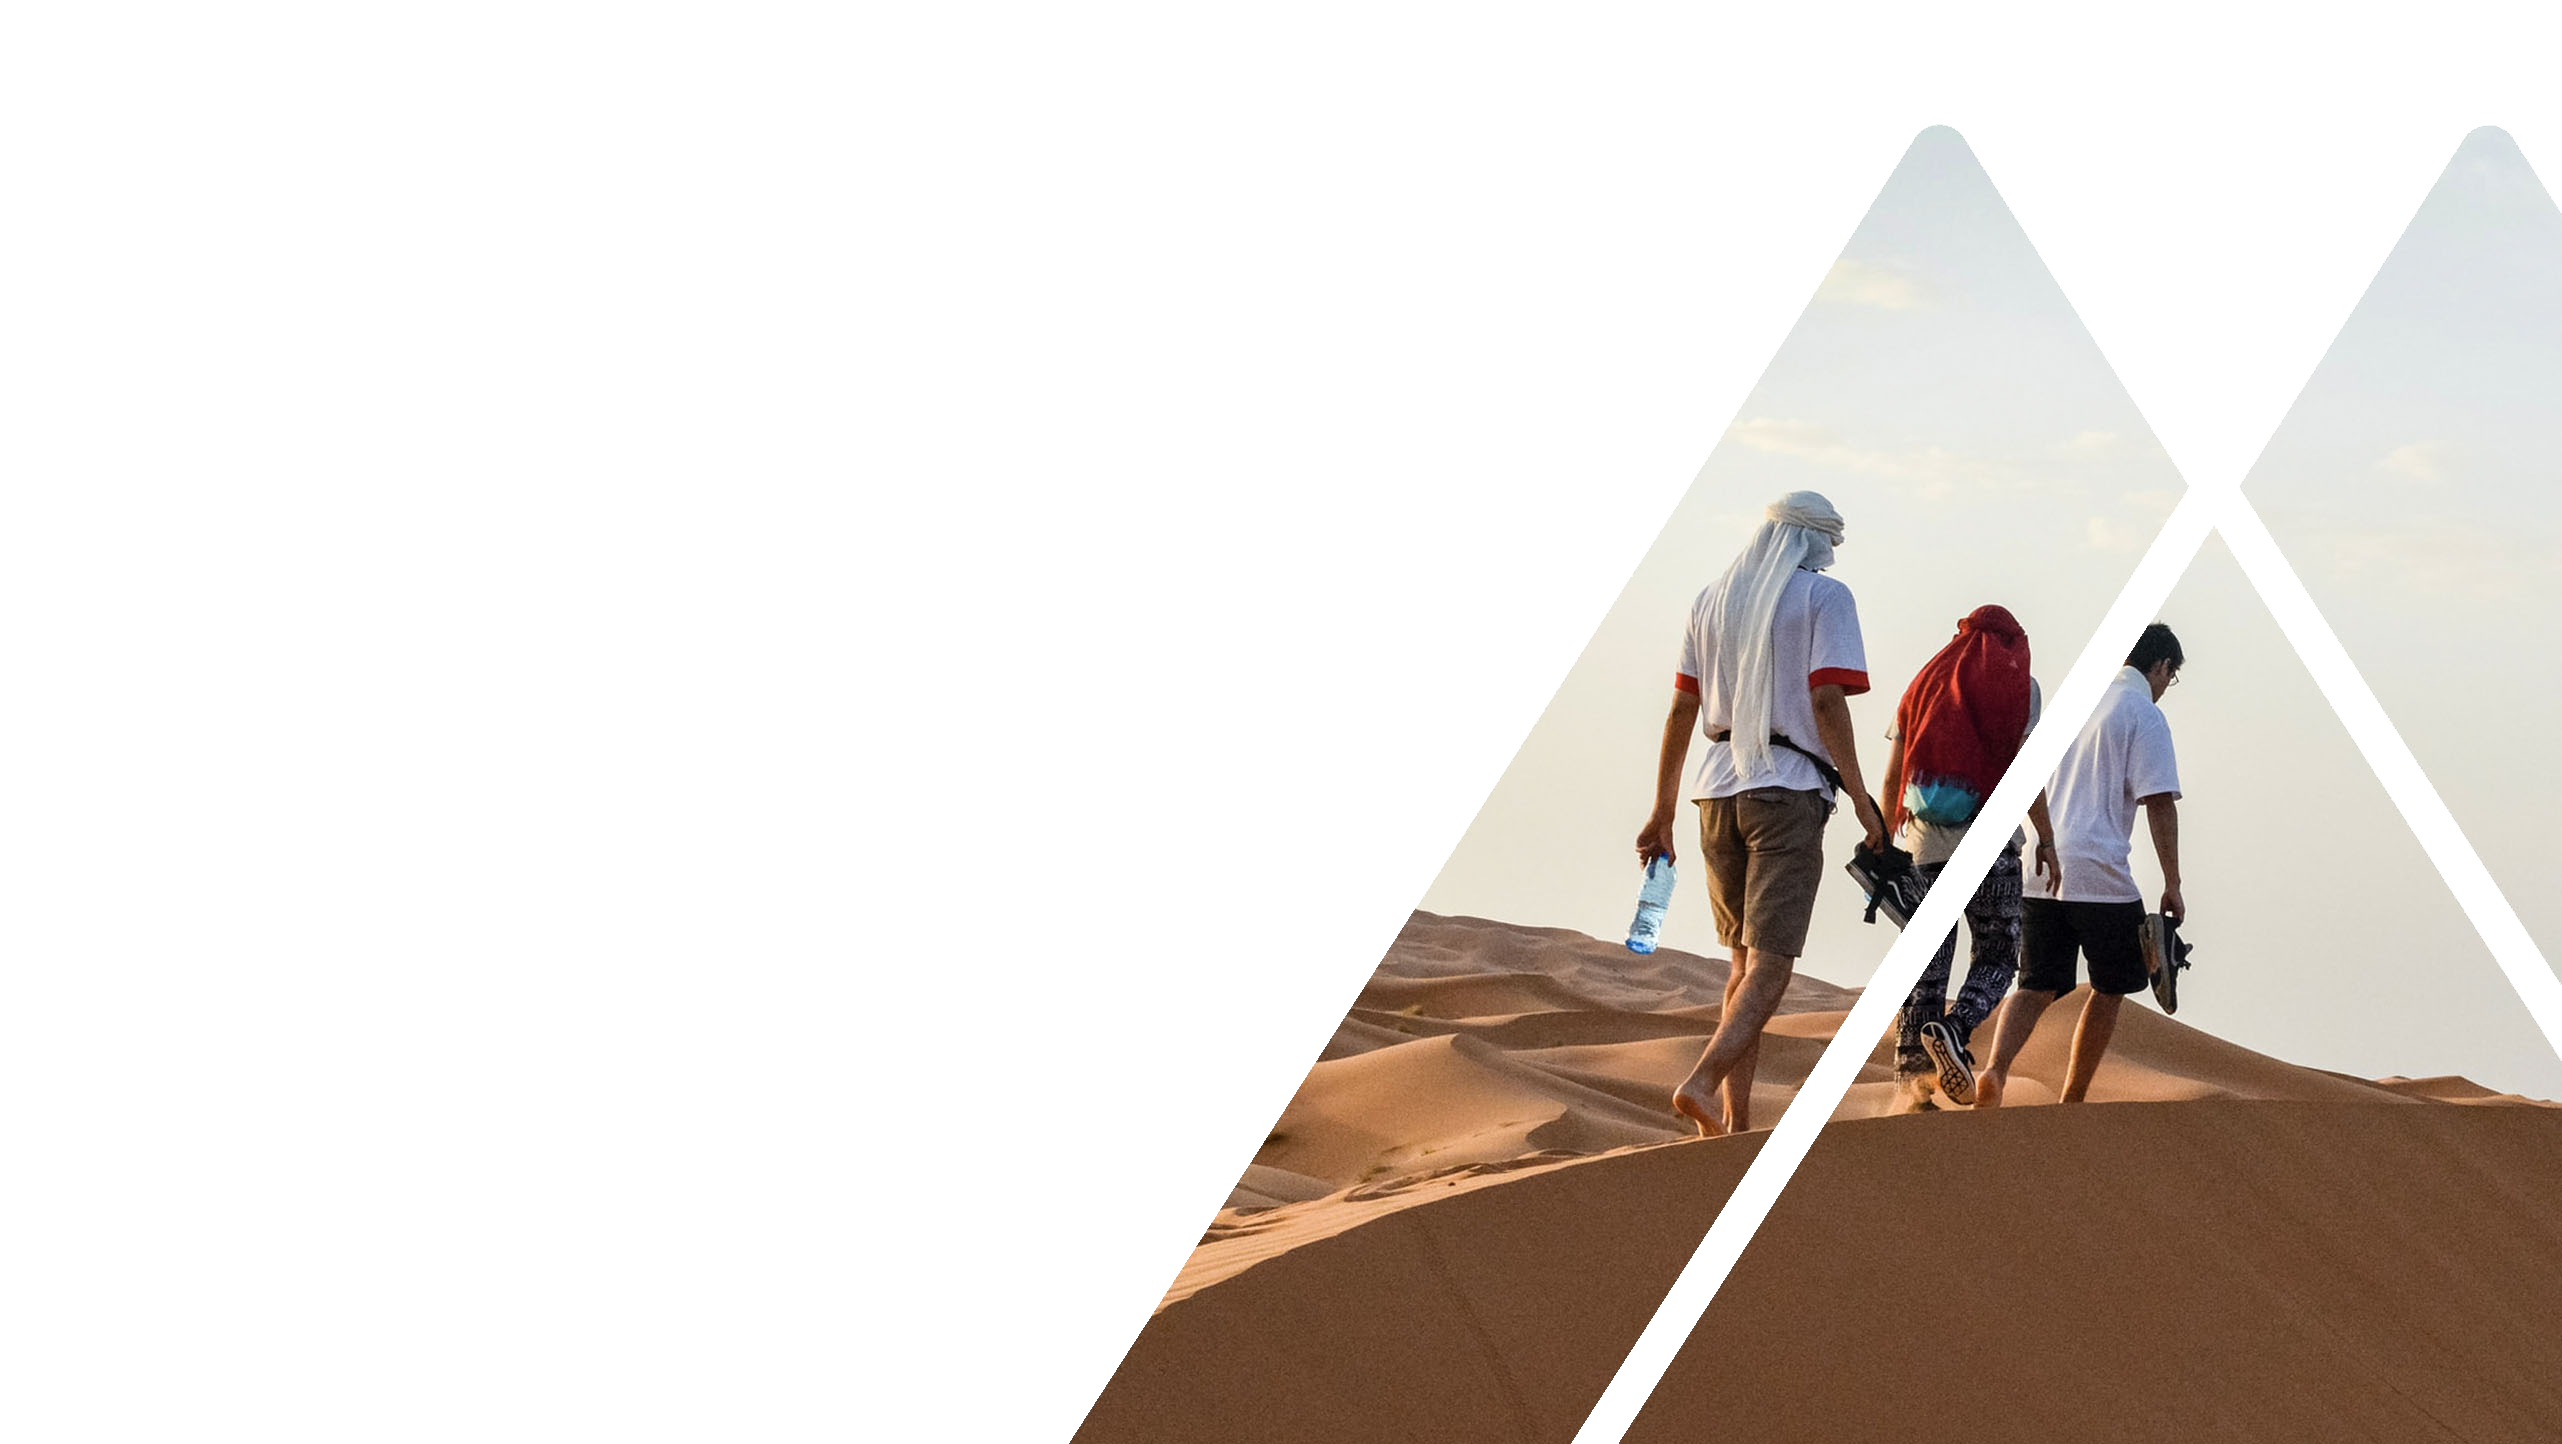
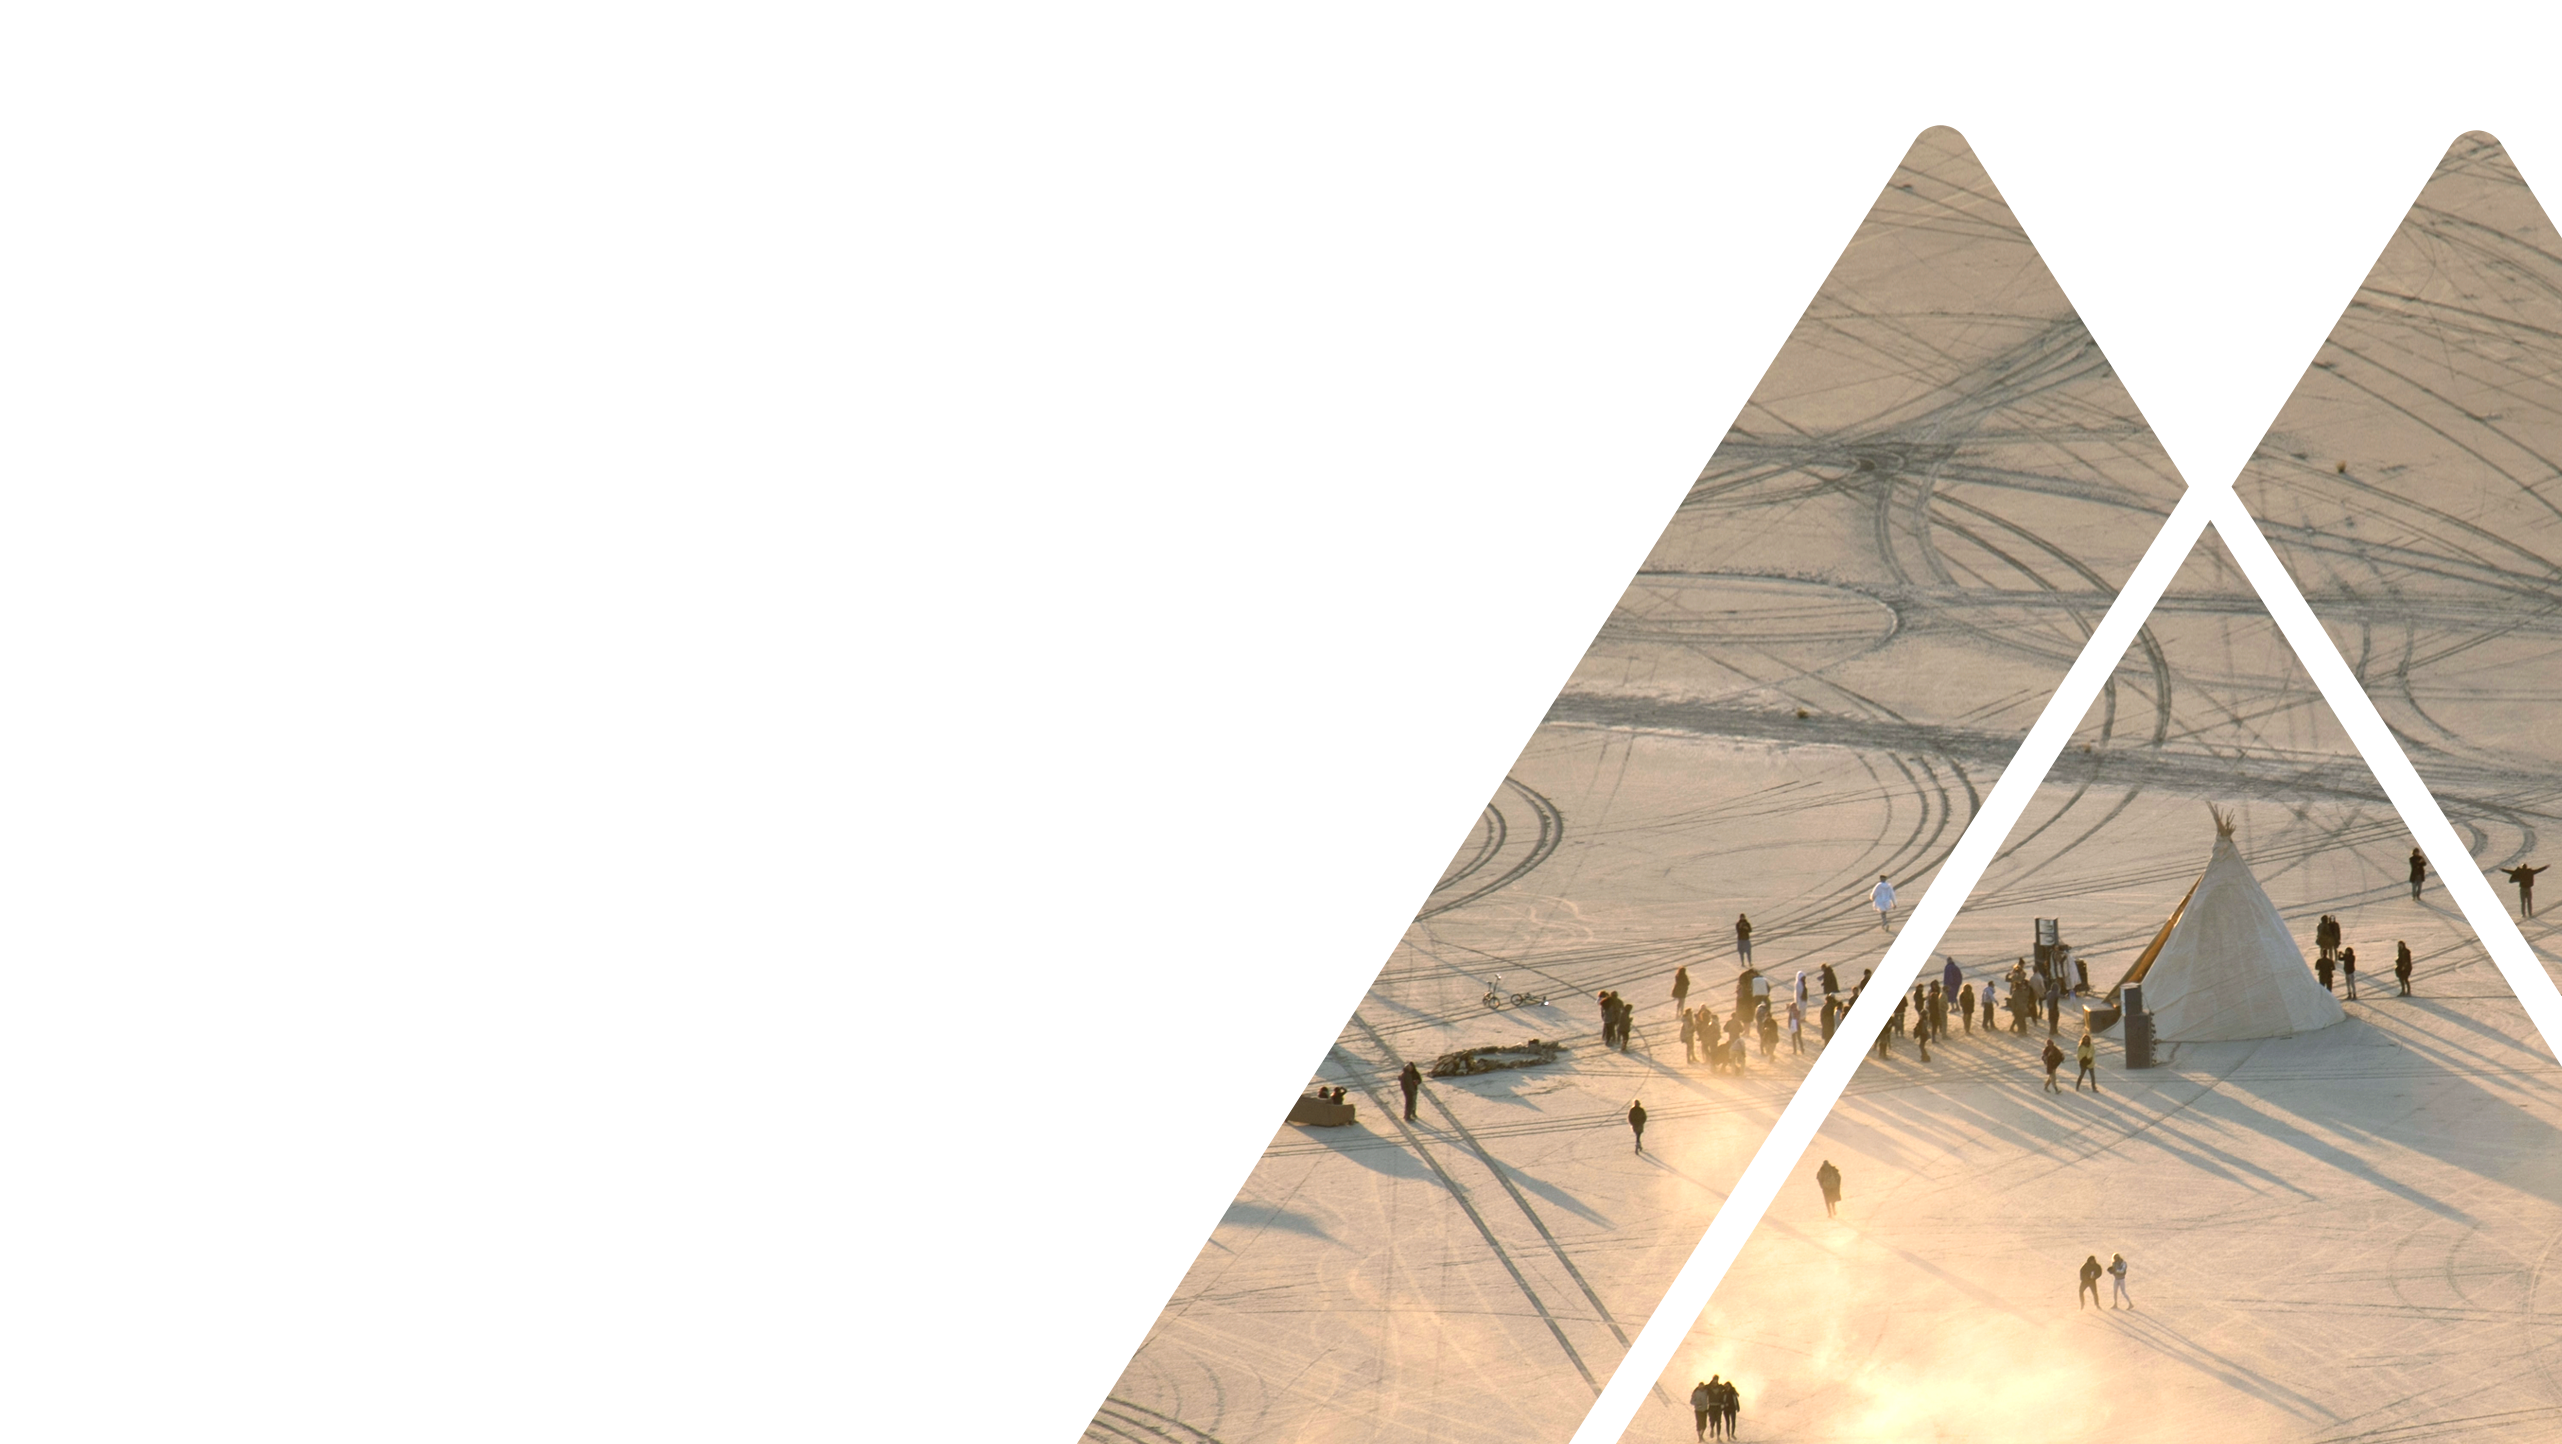
Changed photos + added navigatoin

diff --git a/src/cms/cms.js b/src/cms/cms.js
@@ -24,7 +24,11 @@ CMS.registerPreviewTemplate('about', AboutPagePreview)
 
 /* Inner Pages */
 // CMS.registerPreviewTemplate('reaching', ReachingPagePreview)
-CMS.registerPreviewTemplate('reaching', InnerPagePreviewFactory(ReachingPageTemplate))
+CMS.registerPreviewTemplate('volunteers', InnerPagePreviewFactory(ReachingPageTemplate))
+CMS.registerPreviewTemplate('change-makers', InnerPagePreviewFactory(ReachingPageTemplate))
+CMS.registerPreviewTemplate('empower', InnerPagePreviewFactory(ReachingPageTemplate))
+CMS.registerPreviewTemplate('contact', InnerPagePreviewFactory(ReachingPageTemplate))
+CMS.registerPreviewTemplate('faq', InnerPagePreviewFactory(ReachingPageTemplate))
 CMS.registerPreviewTemplate('doing-negev-location', InnerPagePreviewFactory(DoingPageEventTemplate))
 CMS.registerPreviewTemplate('doing-negev-guide', InnerPagePreviewFactory(DoingPageEventTemplate))
 CMS.registerPreviewTemplate('doing-negev-participate', InnerPagePreviewFactory(DoingPageEventTemplate))
@@ -36,6 +40,7 @@ CMS.registerPreviewTemplate('doing-sinai-tickets', InnerPagePreviewFactory(Doing
 CMS.registerPreviewTemplate('doing-gatherings', InnerPagePreviewFactory(DoingPageTemplate))
 CMS.registerPreviewTemplate('doing-retreats', InnerPagePreviewFactory(DoingPageTemplate))
 // CMS.registerPreviewTemplate('being', BeingPagePreview)
+CMS.registerPreviewTemplate('whtis-whtif', InnerPagePreviewFactory(BeingPageTemplate))
 CMS.registerPreviewTemplate('being-culture', InnerPagePreviewFactory(BeingPageTemplate))
 CMS.registerPreviewTemplate('being-about-us', InnerPagePreviewFactory(BeingPageTemplate))
 CMS.registerPreviewTemplate('being-retreats', InnerPagePreviewFactory(BeingPageTemplate))

diff --git a/src/services/linksService.js b/src/services/linksService.js
@@ -12,11 +12,13 @@ const getTopLevelLinksObj = () => {
     [REACHING]: {
       id: REACHING,
       text: REACHING,
-      link: linkerize(REACHING),
+      link: linkerize(REACHING) + '/volunteers',
       innerNavList: [
-        {text: "Wht If culture", linkTarget: 'culture'},
-        {text: "History ", linkTarget: 'about-us'},
-        {text: "Get involved", linkTarget: 'participate'},
+        {text: "Volunteers", linkTarget: 'volunteers'},
+        {text: "Change Makers", linkTarget: 'change-makers'},
+        {text: "Empower WHT ", linkTarget: 'empower'},
+        {text: "Contact Form ", linkTarget: 'contact'},
+        {text: "F & Q ", linkTarget: 'faq'},
       ], 
     },
     [DOING]: {
@@ -39,11 +41,11 @@ const getTopLevelLinksObj = () => {
     [BEING]: {
       id: BEING,
       text: BEING,
-      link: linkerize(BEING) + '/culture',
+      link: linkerize(BEING) + '/whtis-whtif',
       innerNavList: [
+        {text: "Wht is Wht If", linkTarget: 'whtis-whtif'},
         {text: "Wht If culture", linkTarget: 'culture'},
         {text: "History ", linkTarget: 'about-us'},
-        {text: "Get involved", linkTarget: 'participate'},
       ],
     },
     [DREAMING]: {

diff --git a/src/components/InnerPageLayout.js b/src/components/InnerPageLayout.js
@@ -19,7 +19,7 @@ const getChildrenElement = (children) => (
   </div>
 )
 
-const InnerPageLayout = ({ children, pageDataFetcher, navMenu, location, smallScreen }) => {
+const InnerPageLayout = ({ children, pageDataFetcher, navMenu, location, smallScreen, longLinkLines = false }) => {
 
   const routeArray = (location || {pathname: "/dummypath"}).pathname.split('/').filter(a => !!a );
   const currentPage = routeArray[0];
@@ -30,9 +30,9 @@ const InnerPageLayout = ({ children, pageDataFetcher, navMenu, location, smallSc
       {
         smallScreen ? (
           <div className="display-flex flex-column">
-            <div className="navigation-section">
+            <div className={`navigation-section`}>
               <PreviewCompatibleImage imageInfo={pageDataFetcher.getNavImage(smallScreen)} />
-              <div className="inner-pages-row-underline-display">
+              <div className={`inner-pages-row-underline-display  ${longLinkLines ? 'long-link-lines' : ''}`}>
                 {
                   navMenu.map(l => (
                     <Link

diff --git a/src/templates/reaching-page.js b/src/templates/reaching-page.js
@@ -6,15 +6,17 @@ import Layout from '../components/Layout'
 import InnerPageLayout from '../components/InnerPageLayout'
 import Content, { HTMLContent } from '../components/Content'
 
+import linksService, {REACHING} from '../services/linksService'
 import pageDataMediatorService from '../services/pageDataMediatorService'
 
 export const ReachingPageTemplate = ({ content, navImage, mobileNavImage, contentComponent, location }) => {
   const PageContent = contentComponent || Content
   
+  const innerNavList = linksService.getTopLevelLinksObj()[REACHING].innerNavList;
   const pageDataFetcher = pageDataMediatorService.getPageDataFetcher(navImage, mobileNavImage);
 
   return (
-    <InnerPageLayout pageDataFetcher={pageDataFetcher} navMenu={[]} location={location}>
+    <InnerPageLayout pageDataFetcher={pageDataFetcher} navMenu={innerNavList} location={location} longLinkLines={true}>
       <div className="display-flex flex-row">
         <PageContent className="content flex-1" content={content} />
       </div>

diff --git a/src/templates/index-page.js b/src/templates/index-page.js
@@ -55,7 +55,7 @@ const IndexPageTemplateBare = ({
                             <Link className="column" to={l.link} key={l.id}>
                               <PreviewCompatibleImage imageInfo={l.img} />
                               <div className="inner-pages-row-underline-display">
-                                {l.innerNavList.map(inl => (
+                                {l.innerNavList.slice(0,4).map(inl => (
                                   <div key={inl.linkTarget}>{inl.text}</div>
                                 ))}
                               </div>

diff --git a/src/styles/modules/inner-pages-row-underline-display.scss b/src/styles/modules/inner-pages-row-underline-display.scss
@@ -5,11 +5,18 @@
   justify-content: flex-start;
   text-transform: uppercase;
   // font-size: 11px;
-  font-size: 0.74em;
+  font-size: 0.6em;
   // letter-spacing: -0.4px;
   color: $secondary-text;
 
-  > *:not(:last-child) {
-    margin: 0 12px 0 0;
+  &:not(.long-link-lines) {
+    > *:not(:last-child) {
+      margin: 0 12px 0 0;
+    }
+  }
+  &.long-link-lines {
+    > *:not(:last-child) {
+      margin: 0 6px 0 0;
+    }
   }
 }

diff --git a/src/components/NavigationMap.js b/src/components/NavigationMap.js
@@ -2,7 +2,7 @@ import React from 'react'
 import { Link } from 'gatsby'
 import {withResizeDetector} from 'react-resize-detector';
 
-import logo from '../../static/img/whtif-logo.svg';
+import logo from '../../static/img/logo-thin.png';
 
 import DesertVideo from '../components/DesertVideo';
 import navigationService from '../services/navigationService';

diff --git a/src/pages/reaching/change-makers.md b/src/pages/reaching/change-makers.md
@@ -1,0 +1,29 @@
+---
+templateKey: reaching-page
+path: /reaching/change-makers
+title: Reaching - Change Makers
+navimage:
+  alt: WhtIf team
+  image: /img/change-makers.png
+mobilenavimage:
+  alt: WhtIf team
+  image: /img/page-cards/being_triangle.png
+---
+
+### CHANGE MAKERS - Civic Engagement
+
+WHT IF encourages giving and participation throughout the year in varied social fields. If you have a dream or an idea for a project, which has a positive social impact, you're invited to apply for a support grant. All that is needed to become a Change maker from a dreamer is belief and daring From the moment you have fulfilled a dream your profile classification will become Change maker which will grant you benefits, like 5% discount on ticket purchase in the project areas and additional benefits which will be published on our global blog WHT IF project provides support grants to groups and individuals, who are interested in working under the group`s vision and to assist in bringing cultures closer together, who don't usually meet
+We at WHT IF will assist you to connect between the dreams, escort you in the process of creating the dream and also support you resource - wise in your dream
+Wht is WHT IF ?
+What is everything and nothing?
+What is really the one thing that drives us?
+Which makes us break through our boundaries?
+Dreams?
+When was the last time you came across a challenge and tried something different as a solution?
+Imagination.
+Yes, imagination is probably the one thing NO ONE can ever take away from you. It is yours from the second you were born to the second you pass away.
+Imagination can heal the world to become a better place, it's where visions start, it's where frequencies connect.
+Imagination is love. The unconditional kind.
+Why WHT IF ? WHT if is a new culture, After being a significant and active part of the Burning Man project and co-founding Midburn (the Israeli official Burn in Israel ) we are asking you to join us, while we offer a new culture that we call WHT IF
+If we have the courage to imagine, that if we allow ourselves to look beyond reason and reality, if we can go past our fears - we can give birth to the WHT IF.
+The WHT IF is not just a way of thinking, nor a way of living, it's an energy each human carries.

diff --git a/src/pages/reaching/volunteers.md b/src/pages/reaching/volunteers.md
@@ -1,0 +1,21 @@
+---
+templateKey: reaching-page
+path: /reaching/volunteers
+title: Reaching - Volunteers
+navimage:
+  alt: Volunteers
+  image: /img/volunteers.png
+mobilenavimage:
+  alt: WhtIf team
+  image: /img/page-cards/being_triangle.png
+---
+
+### Volunteer
+
+There are many channels of participation in the WHT IF project
+We consider the value of participation, as a significant value, which contributes to our transformation
+From rich experience about participation value, we now know today, that the value of the experience is significantly enhanced, when we participate in the total expanse
+When we participate and give, we experience a kind of empowerment. We hold the right to influence others, encourage them and through participation, we bestow a gift on ourselves first and the of course to the surroundings
+For volunteering for the WHT IF- NEGEV DESERT project Click here
+For volunteering for the WHT IF -RAS ABU GALUM project Click here
+For ongoing volunteering throughout the year Click here

diff --git a/src/pages/being/whtis-whtif.md b/src/pages/being/whtis-whtif.md
@@ -1,10 +1,10 @@
 ---
 templateKey: being-page
-path: /being/culture
-title: Being Culture
+path: /being/whtis-whtif
+title: Wht is Wht if
 navimage:
   alt: WhtIf team
-  image: /img/culture.png
+  image: /img/whtis-whtif.png
 mobilenavimage:
   alt: WhtIf team
   image: /img/page-cards/being_triangle.png
@@ -25,7 +25,7 @@ Imagination.
 Yes, imagination is probably the one thing NO ONE can ever take away from you. It is yours from the second you were born to the second you pass away.
 
 Imagination can heal the world to become a better place, it's where visions start, it's where frequencies connect.\
-Imagination is love. The unconditional kind.
+Imagination is love. The unconditional kind.ß
 
 After being a significant and active part of the Burning Man project and co-founding Midburn (the Israeli official Burn in Israel ) we are asking you to join us, while we offer a new culture that we call WHT IF
 

diff --git a/src/pages/reaching/empower.md b/src/pages/reaching/empower.md
@@ -1,0 +1,15 @@
+---
+templateKey: reaching-page
+path: /reaching/empower
+title: Reaching - Empower
+navimage:
+  alt: WhtIf team
+  image: /img/empower.png
+mobilenavimage:
+  alt: WhtIf team
+  image: /img/page-cards/being_triangle.png
+---
+
+### WHT IF Culture
+
+Comming Soon....

diff --git a/src/pages/reaching/contact.md b/src/pages/reaching/contact.md
@@ -1,0 +1,15 @@
+---
+templateKey: reaching-page
+path: /reaching/contact
+title: Reaching - Contact
+navimage:
+  alt: WhtIf team
+  image: /img/contact.png
+mobilenavimage:
+  alt: WhtIf team
+  image: /img/page-cards/being_triangle.png
+---
+
+### CONTACT FORM
+
+Comming Soon....
